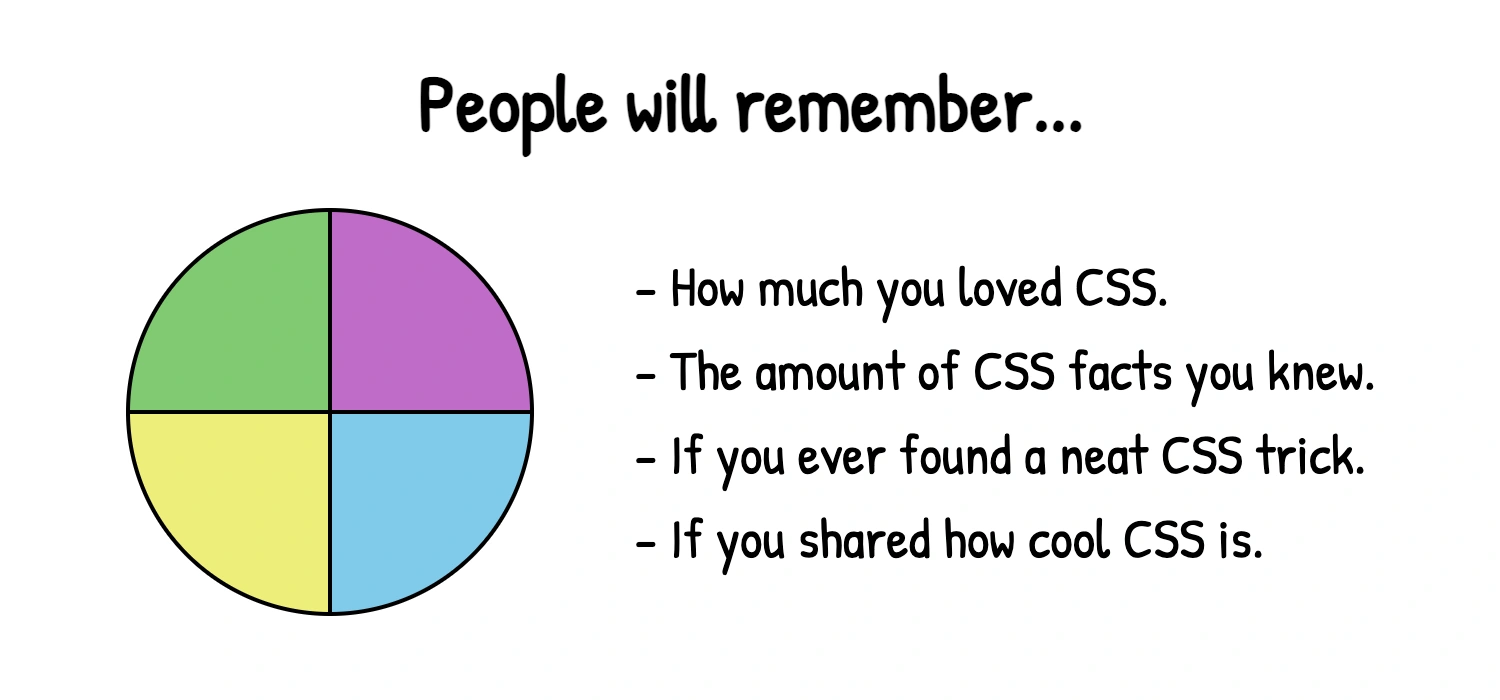
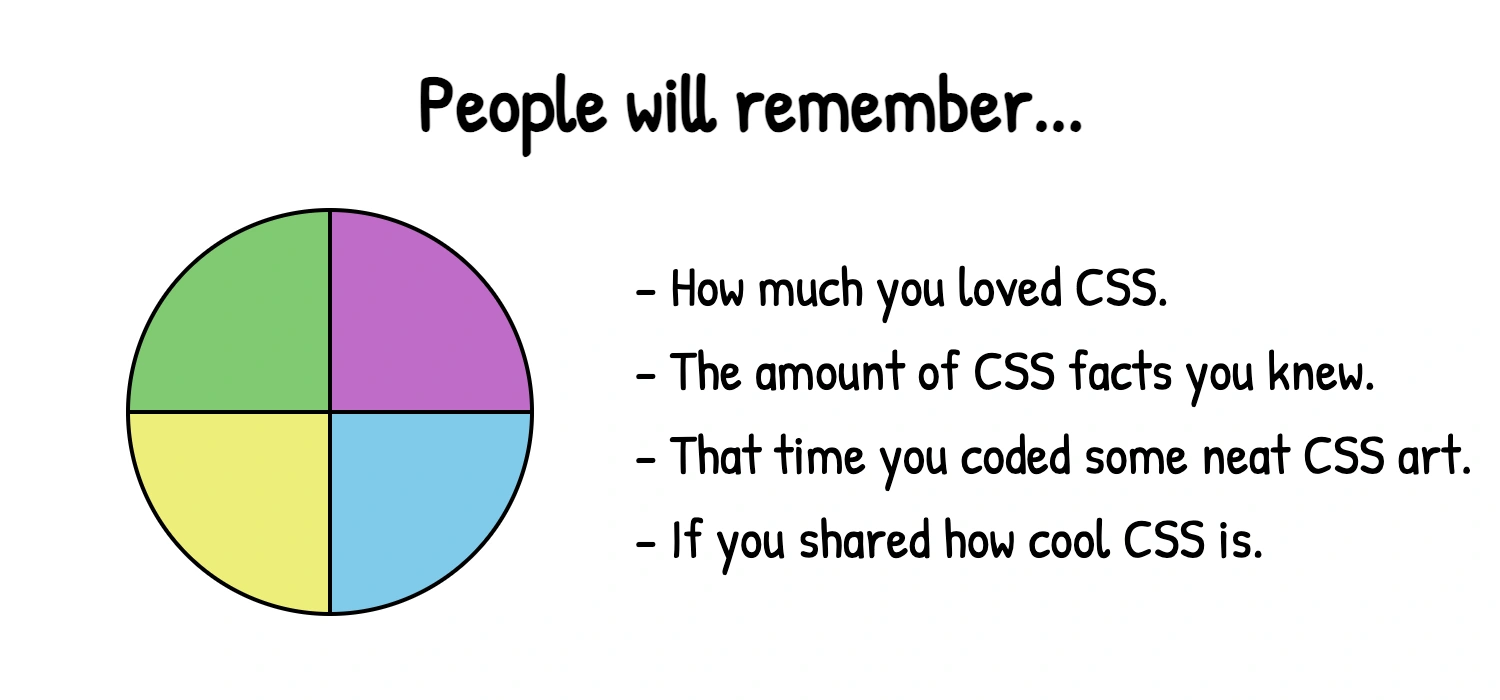
update text in second cartoon

Changed region(s): [[0.4293, 0.6, 0.9813, 0.69]]

diff --git a/comics/257/nobody-will-remember.html b/comics/257/nobody-will-remember.html
@@ -100,7 +100,7 @@ article {
         <ul>
           <li>How much you loved CSS.</li>
           <li>The amount of CSS facts you knew.</li>
-          <li>If you ever found a neat CSS trick.</li>
+          <li>That time you coded some neat CSS art.</li>
           <li>If you shared how cool CSS is.</li>
         </ul>
       </section>
